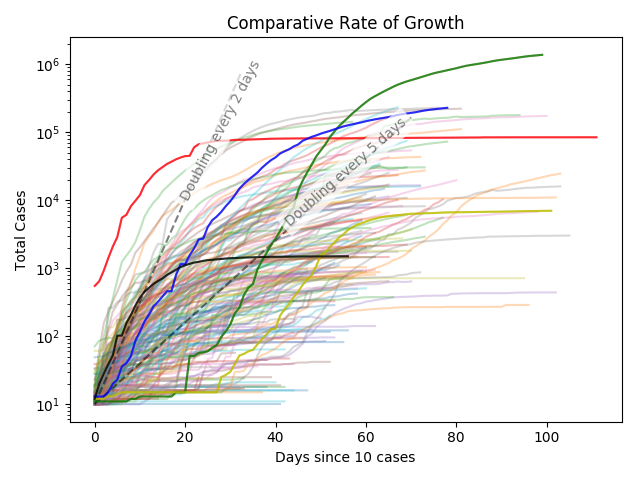
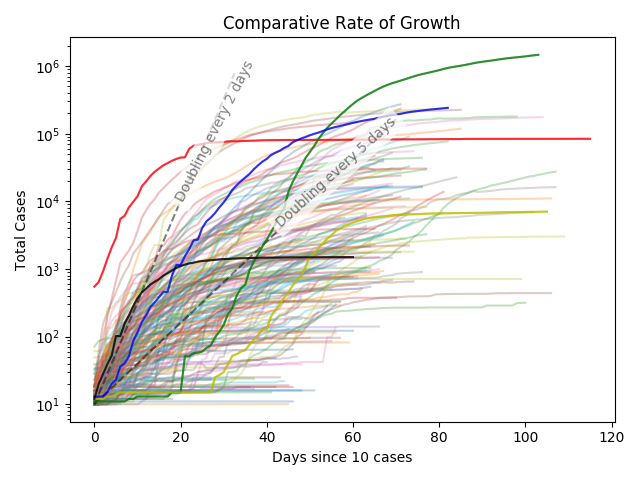
Updated data

diff --git a/NZModel/nz_data.py b/NZModel/nz_data.py
@@ -28,7 +28,7 @@ header=3
 #filename = "covidcase_list_1_apr_2020.xlsx"
 date_column = date_column_sus = "Date notified of potential case"
 #filename = "covid-cases-7may20.xlsx"
-filename = "covid-cases-14may20.xlsx"
+filename = "covid-cases_-_17_may_2020.xlsx"
 
 # The data keeps getting worse *sigh*
 def date_decoder(x):
